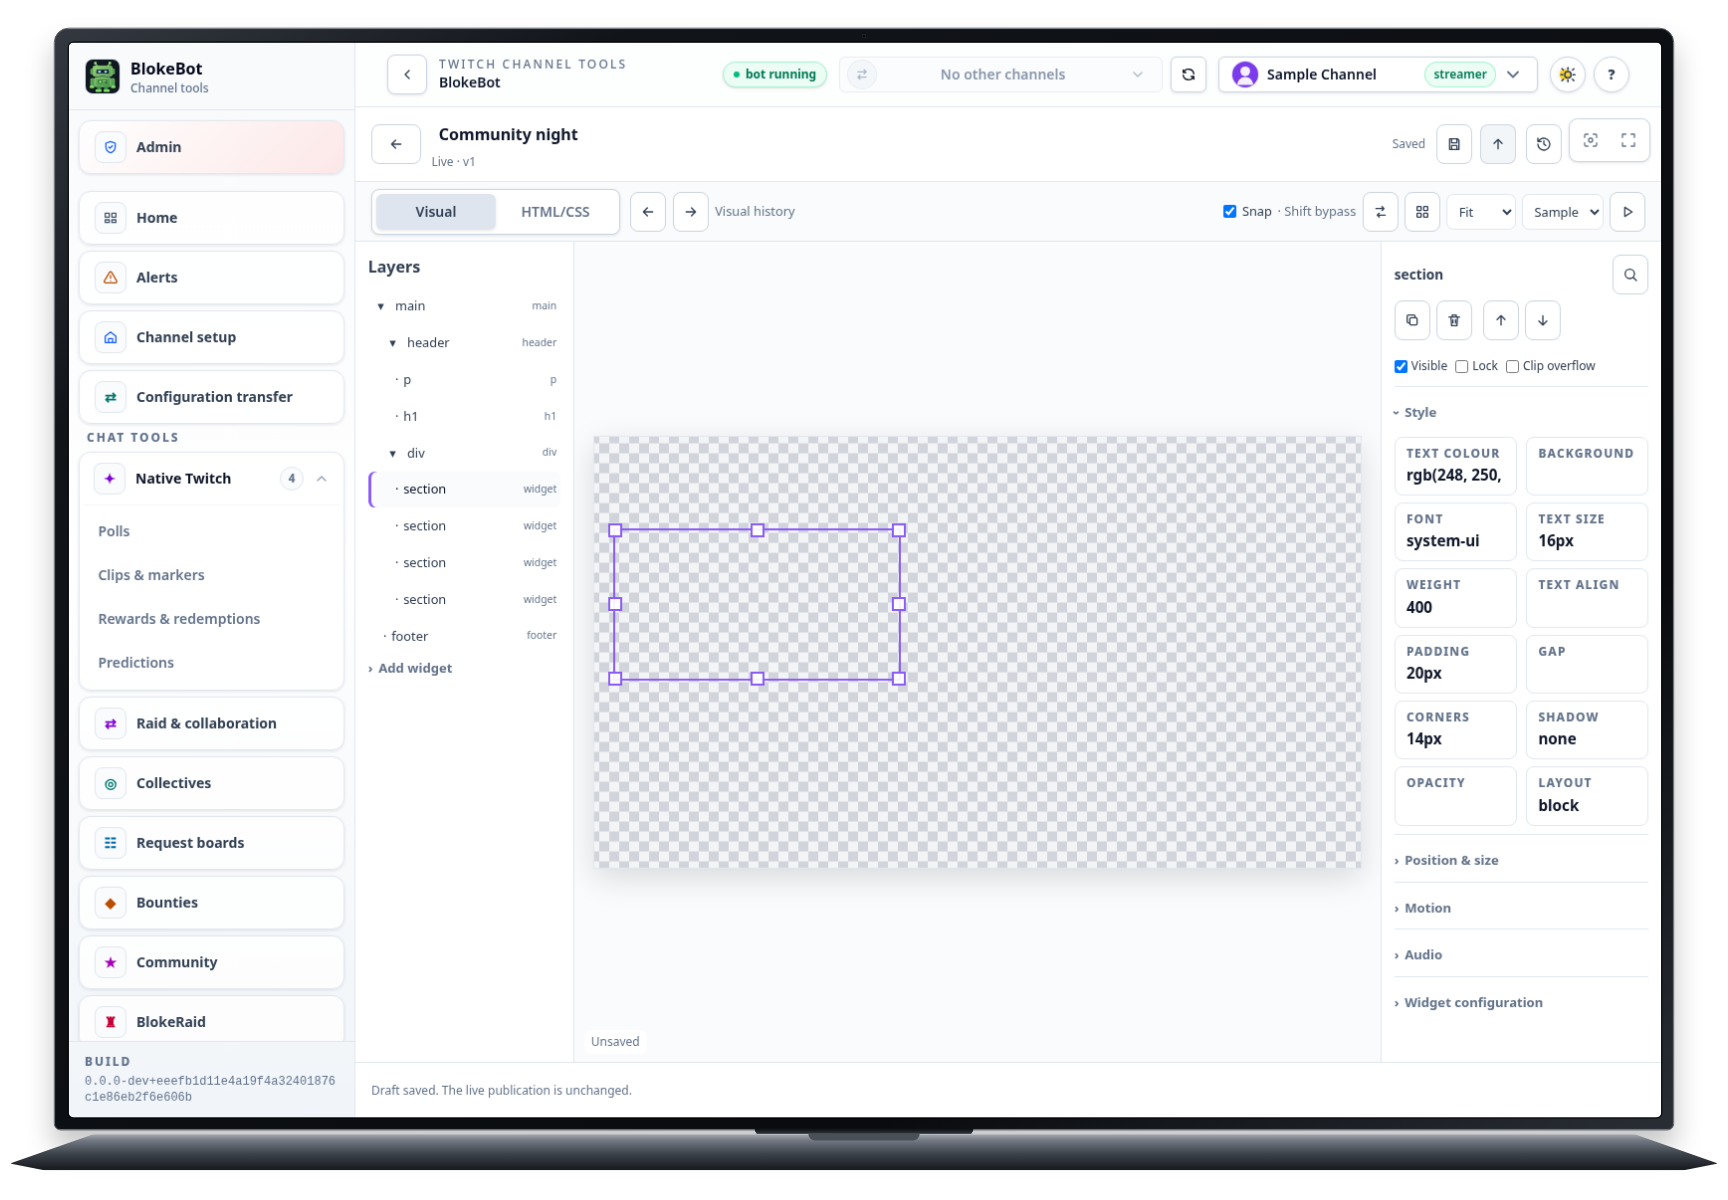
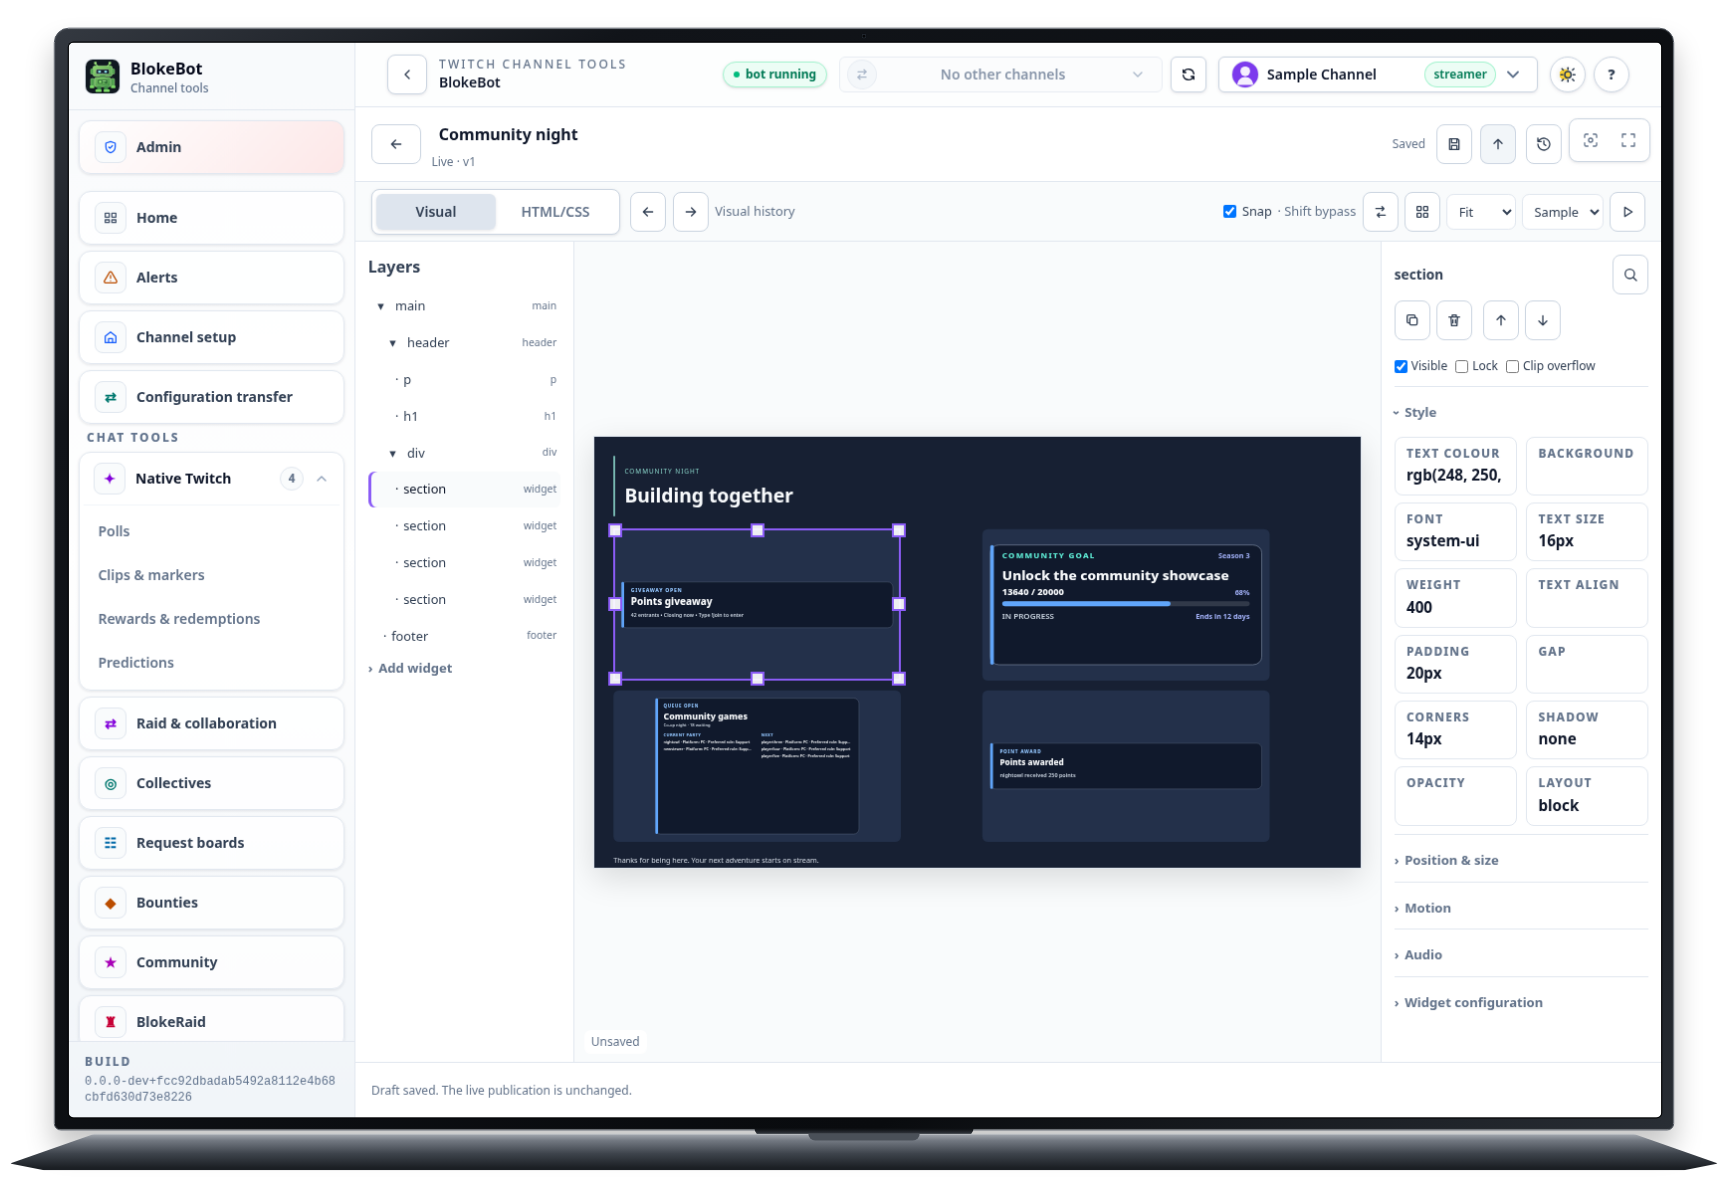
Fix preview reveal observations and shared fullscreen refusal

Changed region(s): [[0.3438, 0.3392, 0.8125, 0.74], [0.0938, 0.8942, 0.1875, 0.925]]

diff --git a/src/BlokeBot.Core/wwwroot/Features/Overlays/Full/Editor/EditorClient.js b/src/BlokeBot.Core/wwwroot/Features/Overlays/Full/Editor/EditorClient.js
@@ -71,7 +71,7 @@ export function createClient(root, document, dotnet) {
         pan:value=>canvas.pan(value),
         viewport(width,height){canvas.viewport(width,height);preview.query();},
         zoom:value=>canvas.zoom(value),align:(axis,edge,selection,revision)=>canvas.align(axis,edge,selection,revision),
-        focusEditor(buffer){view=owner.focus(buffer);publish();(buffer==='visual'?root.querySelector('[data-canvas-area]'):buffer==='html'?html:css).focus({preventScroll:true});},
+        focusEditor(buffer){if(disposed)return;view=owner.focus(buffer);publish();(buffer==='visual'?root.querySelector('[data-canvas-area]'):buffer==='html'?html:css).focus({preventScroll:true});},
         find(selection){if(selection!==view.selected)return;const position=owner.command({kind:'find'}).sourcePosition;if(position!==null){html.focus();html.setSelectionRange(position,position);}},
         dispose(){disposed=true;clearTimeout(previewTimer);abort.abort();layout.disconnect();preview.dispose();canvas.dispose();}
     };

diff --git a/src/BlokeBot.Core/Components/EditorWorkspace.razor.js b/src/BlokeBot.Core/Components/EditorWorkspace.razor.js
@@ -12,8 +12,15 @@ export function createWorkspace(root, dotnet) {
     change();
     return {
         async toggleFullscreen() {
-            if (document.fullscreenElement) await document.exitFullscreen();
-            else await document.documentElement.requestFullscreen();
+            const exiting = document.fullscreenElement !== null;
+            const operation = exiting ? document.exitFullscreen() : document.documentElement.requestFullscreen();
+            try {
+                await operation;
+                return 0;
+            } catch (error) {
+                if (!(error instanceof TypeError)) throw error;
+                return exiting ? 2 : 1;
+            }
         },
         dispose() { abort.abort(); }
     };

diff --git a/tests/BlokeBot.Core.Tests/EditorWorkspaceTests.cs b/tests/BlokeBot.Core.Tests/EditorWorkspaceTests.cs
@@ -35,24 +35,67 @@ public sealed class EditorWorkspaceTests
     }
 
     [Test]
-    public void DeniedBrowserOperationShowsFailureAndKeepsActualState()
+    public async Task RefusalKeepsBrowserStateAndRetryClearsFeedbackWithoutReportingAnInteropFault()
+    {
+        using var context = new BunitContext();
+        var module = context.JSInterop.SetupModule("./Components/EditorWorkspace.razor.js");
+        var browser = module.SetupModule("createWorkspace", _ => true);
+        var operation = browser.Setup<EditorWorkspace.FullscreenResult>("toggleFullscreen");
+        _ = operation.SetResult(EditorWorkspace.FullscreenResult.EnterRefused);
+        var faults = 0;
+        var workspace = context.Render<EditorWorkspace>(parameters =>
+            parameters.Add(component => component.InteropFailure, _ => faults++)
+        );
+        workspace.Find("button[aria-label='Focus']").Click();
+        workspace.Find("button[aria-label='Full screen']").Click();
+        workspace.WaitForAssertion(() =>
+        {
+            workspace.Find("[role=alert]").TextContent.ShouldNotBeNullOrWhiteSpace();
+            workspace
+                .Find("button[aria-label='Full screen']")
+                .GetAttribute("aria-pressed")
+                .ShouldBe("false");
+        });
+        _ = operation.SetResult(EditorWorkspace.FullscreenResult.Completed);
+        workspace.Find("button[aria-label='Full screen']").Click();
+        workspace.WaitForAssertion(() => workspace.FindAll("[role=alert]").ShouldBeEmpty());
+        await workspace.Instance.BrowserFullscreenChangedAsync(true);
+        _ = operation.SetResult(EditorWorkspace.FullscreenResult.ExitRefused);
+        workspace.Find("button[aria-label='Exit Full screen']").Click();
+        workspace.WaitForAssertion(() =>
+        {
+            workspace.Find("[role=alert]").TextContent.ShouldNotBeNullOrWhiteSpace();
+            workspace
+                .Find("button[aria-label='Exit Full screen']")
+                .GetAttribute("aria-pressed")
+                .ShouldBe("true");
+        });
+        _ = operation.SetResult(EditorWorkspace.FullscreenResult.Completed);
+        workspace.Find("button[aria-label='Exit Full screen']").Click();
+        await workspace.Instance.BrowserFullscreenChangedAsync(false);
+        workspace.WaitForAssertion(() => workspace.FindAll("[role=alert]").ShouldBeEmpty());
+        workspace.Instance.FocusMode.ShouldBeTrue();
+        faults.ShouldBe(0);
+        _ = browser.SetupVoid("dispose", _ => true).SetVoidResult();
+    }
+
+    [Test]
+    public void ExceptionalInteropFailureIsReportedWithoutInventingFullscreenState()
     {
         using var context = new BunitContext();
         var module = context.JSInterop.SetupModule("./Components/EditorWorkspace.razor.js");
         var browser = module.SetupModule("createWorkspace", _ => true);
         _ = browser
-            .SetupVoid("toggleFullscreen")
-            .SetException(new JSException("Denied by browser"));
-        JSException? reported = null;
+            .Setup<EditorWorkspace.FullscreenResult>("toggleFullscreen")
+            .SetException(new JSException("Module failed"));
+        var faults = 0;
         var workspace = context.Render<EditorWorkspace>(parameters =>
-            parameters.Add(component => component.BrowserFailure, failure => reported = failure)
+            parameters.Add(component => component.InteropFailure, _ => faults++)
         );
-
         workspace.Find("button[aria-label='Full screen']").Click();
-
         workspace.WaitForAssertion(() =>
         {
-            _ = reported.ShouldNotBeNull();
+            faults.ShouldBe(1);
             workspace.Find("[role=alert]").TextContent.ShouldNotBeNullOrWhiteSpace();
             workspace
                 .Find("button[aria-label='Full screen']")

diff --git a/src/BlokeBot.Core/Components/EditorWorkspace.razor.cs b/src/BlokeBot.Core/Components/EditorWorkspace.razor.cs
@@ -14,8 +14,18 @@ public partial class EditorWorkspace
     [Parameter]
     public EventCallback<bool> FocusChanged { get; set; }
 
+    [Inject]
+    private ILogger<EditorWorkspace> _logger { get; set; } = default!;
+
     [Parameter]
-    public EventCallback<JSException> BrowserFailure { get; set; }
+    public EventCallback<JSException> InteropFailure { get; set; }
+
+    internal enum FullscreenResult
+    {
+        Completed,
+        EnterRefused,
+        ExitRefused,
+    }
 
     [Parameter(CaptureUnmatchedValues = true)]
     public IReadOnlyDictionary<string, object>? Attributes { get; set; }
@@ -61,7 +71,7 @@ public partial class EditorWorkspace
         catch (JSDisconnectedException) { }
         catch (JSException exception)
         {
-            await FailedAsync(exception);
+            await InteropFailedAsync(exception);
             await InvokeAsync(StateHasChanged);
         }
     }
@@ -77,23 +87,36 @@ public partial class EditorWorkspace
         _failure = null;
         if (_browser is null)
         {
-            _failure = "Browser full screen did not start. Try again.";
+            _failure = "Browser full screen controls are unavailable. Try again.";
             return;
         }
         try
         {
-            await _browser.InvokeVoidAsync("toggleFullscreen");
+            var result = await _browser.InvokeAsync<FullscreenResult>("toggleFullscreen");
+            _failure = result switch
+            {
+                FullscreenResult.Completed => null,
+                FullscreenResult.EnterRefused => "Browser full screen did not start. Try again.",
+                FullscreenResult.ExitRefused => "Browser full screen did not exit. Try again.",
+            };
         }
         catch (JSException exception)
         {
-            await FailedAsync(exception);
+            await InteropFailedAsync(exception);
         }
     }
 
-    private async Task FailedAsync(JSException exception)
+    private async Task InteropFailedAsync(JSException exception)
     {
-        _failure = "Browser full screen did not start. Try again.";
-        await BrowserFailure.InvokeAsync(exception);
+        _failure = "Browser full screen controls are unavailable. Try again.";
+        if (InteropFailure.HasDelegate)
+        {
+            await InteropFailure.InvokeAsync(exception);
+        }
+        else
+        {
+            _logger.LogWarning(exception, "Editor workspace browser interop failed");
+        }
     }
 
     [JSInvokable]

diff --git a/src/BlokeBot.Core/Features/Overlays/Full/FullOverlayBrowserAssets.Controller.cs b/src/BlokeBot.Core/Features/Overlays/Full/FullOverlayBrowserAssets.Controller.cs
@@ -37,7 +37,11 @@ internal static partial class FullOverlayBrowserAssets
               state, diagnostics, lifetime,
             }, location.origin);
           };
-          const observe = () => { if (preview && loaded && observation) port.postMessage({ kind: "observe", lifetime, ...observation }); };
+          const observe = () => {
+            if (preview && !page.signal.aborted && loaded && observation && !presentation)
+              port.postMessage({ kind: "observe", lifetime, ...observation });
+          };
+          if (preview) window.addEventListener("resize", () => requestAnimationFrame(observe), { signal: page.signal });
           window.addEventListener("message", (event) => {
             if (!preview || parent === window || event.source !== parent || event.origin !== location.origin) return;
             const data = event.data;

diff --git a/src/BlokeBot.Core/Features/Automations/Page/AutomationEditorPage.Workspace.cs b/src/BlokeBot.Core/Features/Automations/Page/AutomationEditorPage.Workspace.cs
@@ -111,7 +111,7 @@ public partial class AutomationEditorPage
 
     private void WorkspaceFocusChanged(bool _) => StateHasChanged();
 
-    private void WorkspaceBrowserFailure(JSException exception) =>
+    private void WorkspaceInteropFailure(JSException exception) =>
         ReportUiFault("EditorWorkspace.Fullscreen", exception);
 
     private void ToggleFlowRail() => _flowRailCollapsed = !_flowRailCollapsed;
